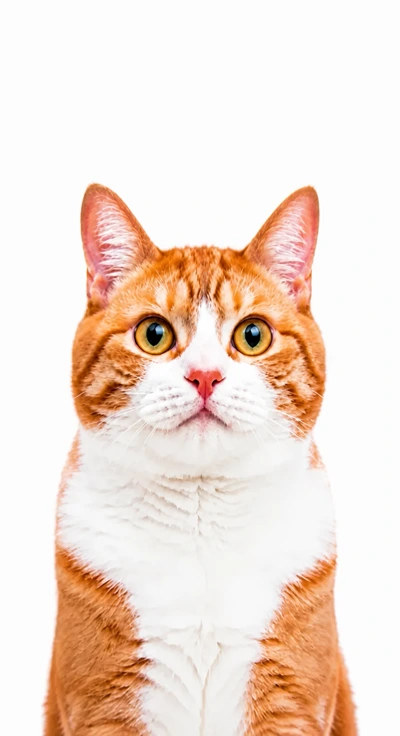
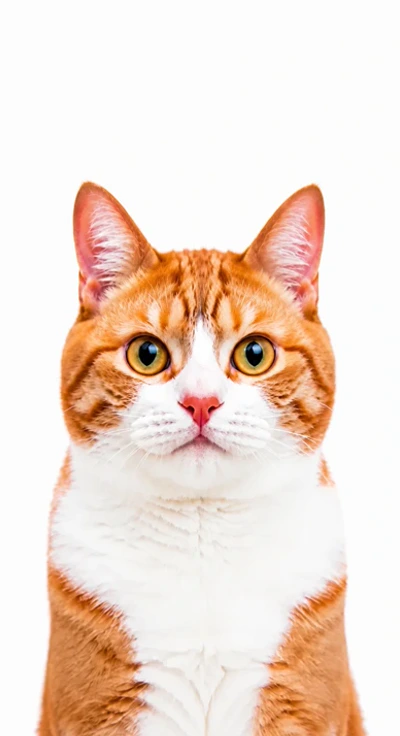
fix(cat-cursor): regenerate scale-consistent cross frames

diff --git a/pages/cat-cursor/index.html b/pages/cat-cursor/index.html
@@ -5,7 +5,7 @@
   <meta name="viewport" content="width=device-width, initial-scale=1.0, maximum-scale=1.0, user-scalable=no">
   <meta name="theme-color" content="#ffffff">
   <title>Cat Cursor</title>
-  <link rel="stylesheet" href="style.css?v=20260827-3">
+  <link rel="stylesheet" href="style.css?v=20260827-4">
 </head>
 <body>
   <main id="cat-stage" class="cat-stage" aria-label="커서를 따라 시선을 움직이는 고양이">
@@ -37,6 +37,6 @@
     </div>
   </main>
 
-  <script type="module" src="script.js?v=20260827-3"></script>
+  <script type="module" src="script.js?v=20260827-4"></script>
 </body>
 </html>

diff --git a/pages/cat-cursor/script.js b/pages/cat-cursor/script.js
@@ -1,5 +1,5 @@
 const CIRCLE_FRAME_COUNT = 96;
-const ASSET_VERSION = '20260827-3';
+const ASSET_VERSION = '20260827-4';
 
 const circlePointers = Array.from({ length: CIRCLE_FRAME_COUNT }, (_, index) => {
   const angle = -(index / CIRCLE_FRAME_COUNT) * Math.PI * 2;

diff --git a/pages/cat-cursor/spec.md b/pages/cat-cursor/spec.md
@@ -4,11 +4,12 @@
 
 - The original cat video is decomposed into a 96-frame circular WebP sequence at 24 fps.
 - Twenty-nine generated keyframes fill the missing cross: one shared center plus seven intermediate poses between center and each original cardinal frame.
+- Each intermediate pose is generated as a standalone image, then uniformly resized and repositioned to match the midpoint framing of its neighboring keyframes.
 - Each of the 125 source images owns a normalized pointer position: 96 around the circle and 29 along the central cross.
 - Pointer coordinates are normalized from the cat's face to the four edges of the stage. The image whose pointer has the smallest two-dimensional distance from the cursor is displayed.
 - Debug mode displays every image pointer and highlights the active one. Use the on-screen `Points` button, press `D`, or append `?debug=1` to the URL to enable it.
 - Debug pointer screen positions are recalculated from normalized coordinates when the viewport changes size.
-- There are no motion-interpolated images and only one photographic frame is visible at a time.
+- There are no motion-interpolated or blended images, and only one photographic frame is visible at a time.
 - Runtime images are decoded before interaction, retained in memory, and changed at most once per animation frame.
 - Cardinal mapping is frame 1 right, frame 25 up, frame 49 left, and frame 73 down.
 - Pointer movement drives the desktop interaction; pointer dragging provides the same behavior on touch devices.
